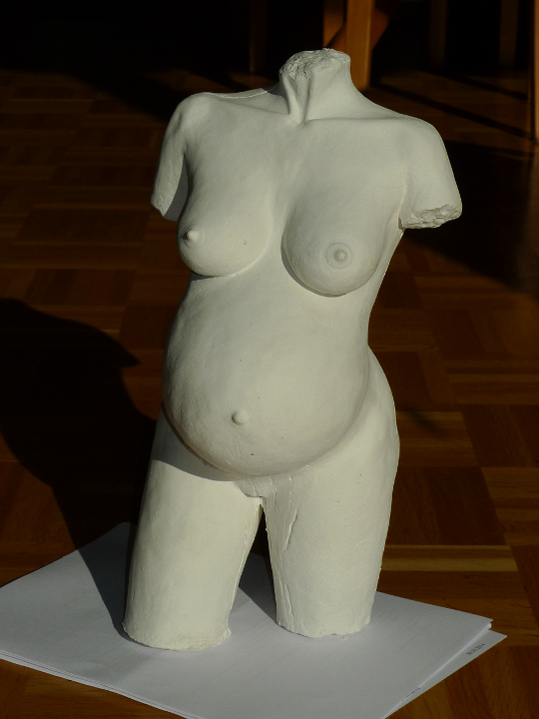
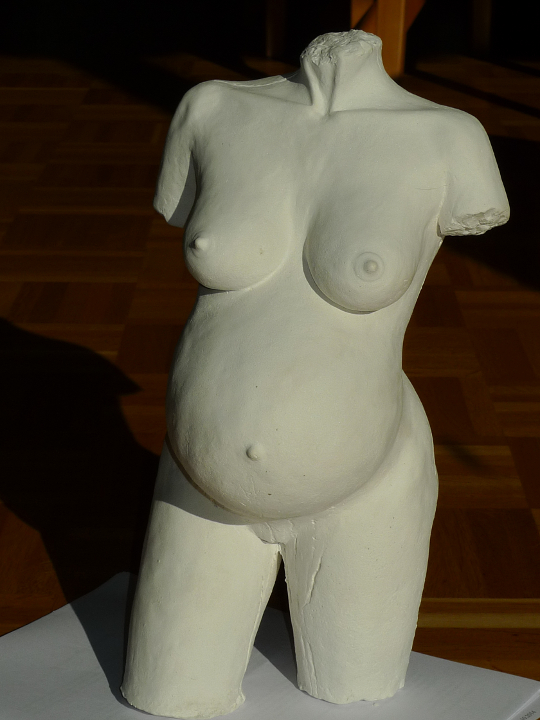
upload images ; update works1 deutsch

diff --git a/de/works1-de.html b/de/works1-de.html
@@ -22,7 +22,7 @@
 				<li><a href="contact-de.html" title="Kontakt">Kontakt</a></li>	
 				<li><a href="bio-de.html" title="bio">Vita</a></li>
 				<li><a href="works1-de.html" title="werke">Werke</a></li>
-				<li><a href="aktuell.html" title="aktuell">Aktuell</a></li>
+				<li><a href="news-de.html" title="aktuell">Aktuell</a></li>
 				<li><a href="../index.html" title="home">Hauptseite</a></li>
 			</ul>
 		</div>
@@ -30,19 +30,27 @@
 		<div id="linie"><hr></div>
 		<div id="header-vertical"><img src="../images/sculptures.jpg" alt="sculptures"></div>
 		<div id="nav-img" >
-           	<p><a href="works1-de.html"><img class="active" src="../images/x100-Schwangerschaft.jpg" title="Schwangerschaft" alt="Schwangerschaft"></a></p>
-			<p><a href="works2-de.html"><img class="hover" src="../images/x100-cockfight.jpg" title="cockfight" alt="cockfight"></a></p>
-			<p><a href="../index.html"><img class="hover" src="../images/x100-Torso-terracotta.jpg" title="Torso terracotta" alt="Torso terracotta"></a></p>		
-			<p><a href="../index.html"><img class="hover" src="../images/x100-hand-bronze.jpg" title="hand bronze" alt="hand bronze"></a></p>			
-			<p><a href="../index.html"><img class="hover" src="../images/x100-bust-bronze.jpg" title="bust bronze" alt="bust bronze"></a></p>			
-			<p><a href="../index.html"><img class="hover" src="../images/x100-mask.jpg" title="mask" alt="mask"></a></p>							
+			<p><a href="works1-de.html"><img class="active" src="../images/x100-expectation.jpg" title="expectation" alt="expectation"></a></p> <!--most recent-->
+			<p><a href="works06-de.html"><img class="hover" src="../images/x100-Schwangerschaft.jpg" title="Schwangerschaft" alt="Schwangerschaft"></a></p>
+			<p><a href="works05-de.html"><img class="hover" src="../images/x100-cockfight.jpg" title="cockfight" alt="cockfight"></a></p>
+			<p><a href="works04-de.html"><img class="hover" src="../images/x100-Torso-terracotta.jpg" title="Torso terracotta" alt="Torso terracotta"></a></p>		
+			<p><a href="works03-de.html"><img class="hover" src="../images/x100-hand-bronze.jpg" title="hand bronze" alt="hand bronze"></a></p>			
+			<p><a href="works02-de.html"><img class="hover" src="../images/x100-bust-bronze.jpg" title="bust bronze" alt="bust bronze"></a></p>			
+			<p><a href="works01-de.html"><img class="hover" src="../images/x100-mask.jpg" title="mask" alt="mask"></a></p>	
+			<p><a href="works1-de.html"> Top </a></p>		
 		</div>
 		<div id="detail"> 
 			
 		</div>
 		<div id="beschreibung" >
-		<img src="../images/x540-Schwangerschaft.jpg"  alt="Schwangerschaft">
-			<p>Schwangerschaft, Gips, 2015</p>
+			<img src="../images/x540-expectation.jpg"  alt="expectation">
+			<p>Vorfreude, 2015, Gips patiniert, 40 x 35 x 35 cm</p> 
+			<img src="../images/x540-expectation-face.jpg"  alt="expectation">
+			<p>Vorfreude, 2015, Gips patiniert, 40 x 35 x 35 cm</p> 
+			<p style="text-align:left"><a href="works1-de.html"> Top </a></p>
+<!--			<p><img src="../images/x540-Schwangerschaft.jpg"  alt="Schwangerschaft"></p>
+			<p>Schwangerschaft, 2014, Gips patiniert, 57 x 20 x 20 cm</p>
+-->
 		</div>
 	</div>
 	</body>
